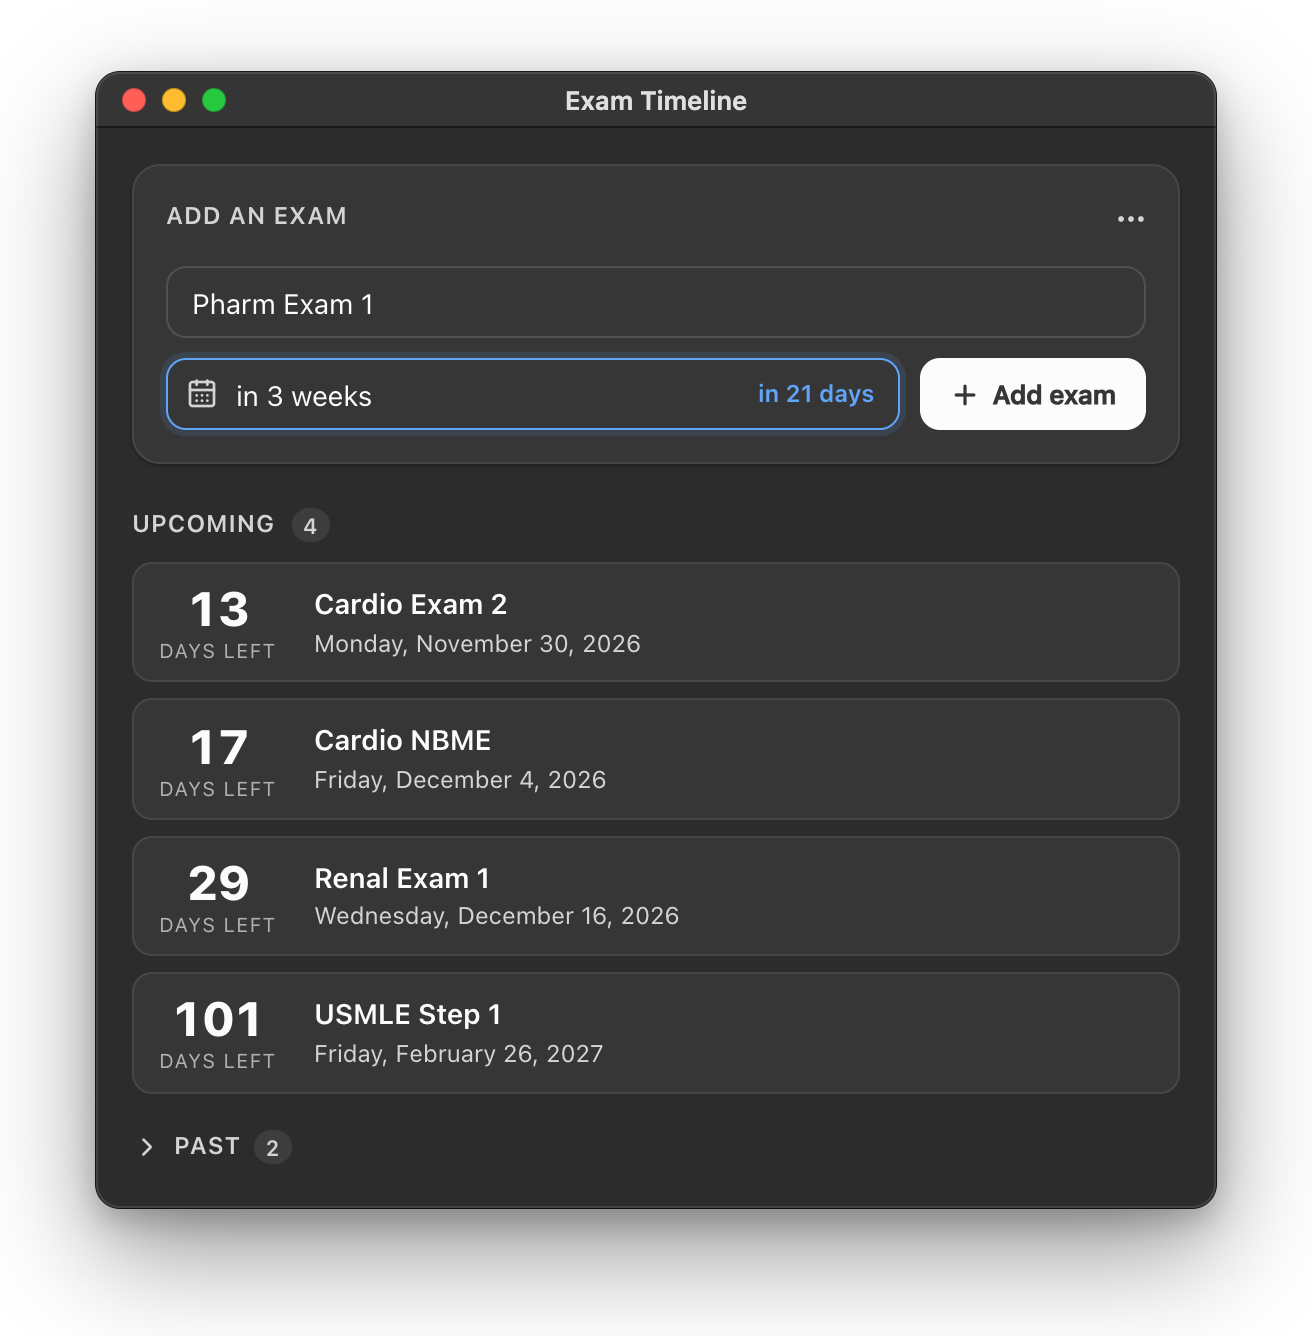
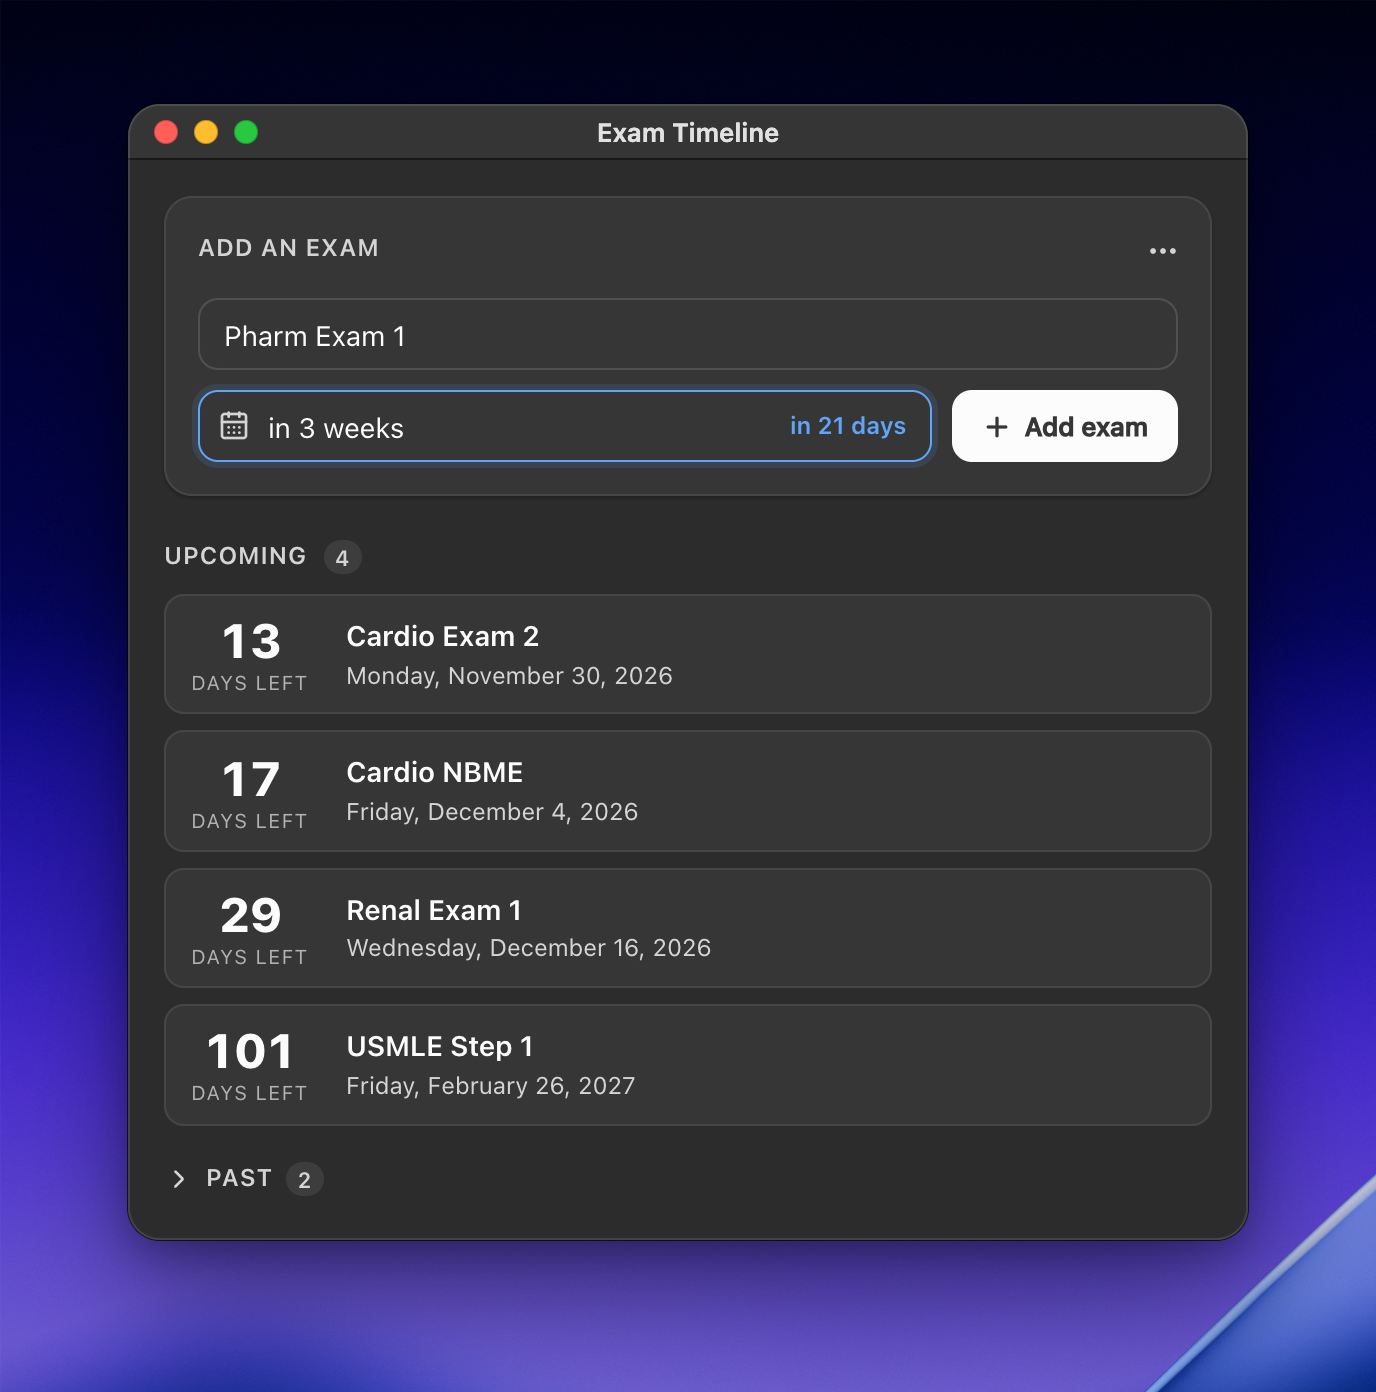
docs: show the screenshots in AnkiGlass on macOS Tahoe's wallpaper
The deck screen is now in AnkiGlass's Liquid Glass and both windows sit
on macOS Tahoe's dark wallpaper, so the README and the AnkiWeb listing
match the look of AIbrahimv2's other add-ons. A line under the main
image says it's shown with AnkiGlass and links to it, so nobody expects
glass from Exam Timeline alone. Development describes the new options.

diff --git a/README.md b/README.md
@@ -6,6 +6,8 @@ upcoming exams, nearest first.
 
 <img src="docs/screenshot.png" width="856" alt="Anki's deck screen with Exam Timeline under the deck list: 13 days left until Cardio Exam 2, above a timeline of four upcoming exams">
 
+<sub>Shown with [AnkiGlass](https://github.com/AIbrahimv2/AnkiGlass), which gives Anki's main window macOS Liquid Glass.</sub>
+
 ## Features
 
 - **Timeline widget** on the deck (home) and deck-overview screens showing
@@ -71,8 +73,10 @@ ln -s "$(pwd)/src" ~/Library/Application\ Support/Anki2/addons21/anki-exam-timel
   `dist/`.
 - `python3 tools/screenshots.py` renders `docs/screenshot.png` and
   `docs/editor.png` (used here and on AnkiWeb) from made-up exams, with
-  Chromium and Anki's own stylesheets. Rerun it after changing how either
-  looks.
+  Chromium, Anki's own stylesheets and AnkiGlass's (from `../anki-glass`),
+  on macOS Tahoe's dark wallpaper. Rerun it after changing how either looks;
+  `--plain` leaves out AnkiGlass, and `--wallpaper` or `--capture-wallpaper`
+  (the desktop's own) picks another.
 
 Never use `<input type="date">`, `<select>` or other controls with a native
 popup in the editor: in Anki's web view on macOS they crash Anki.
